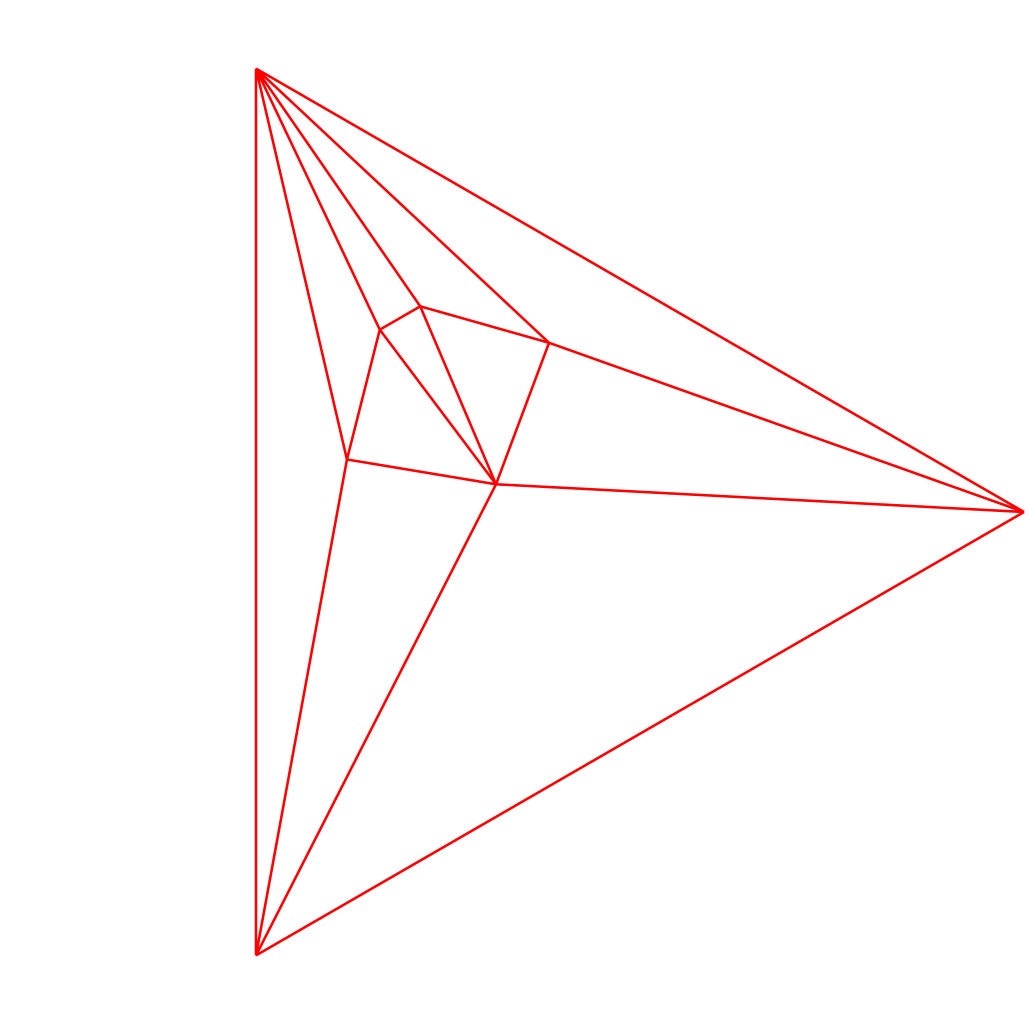
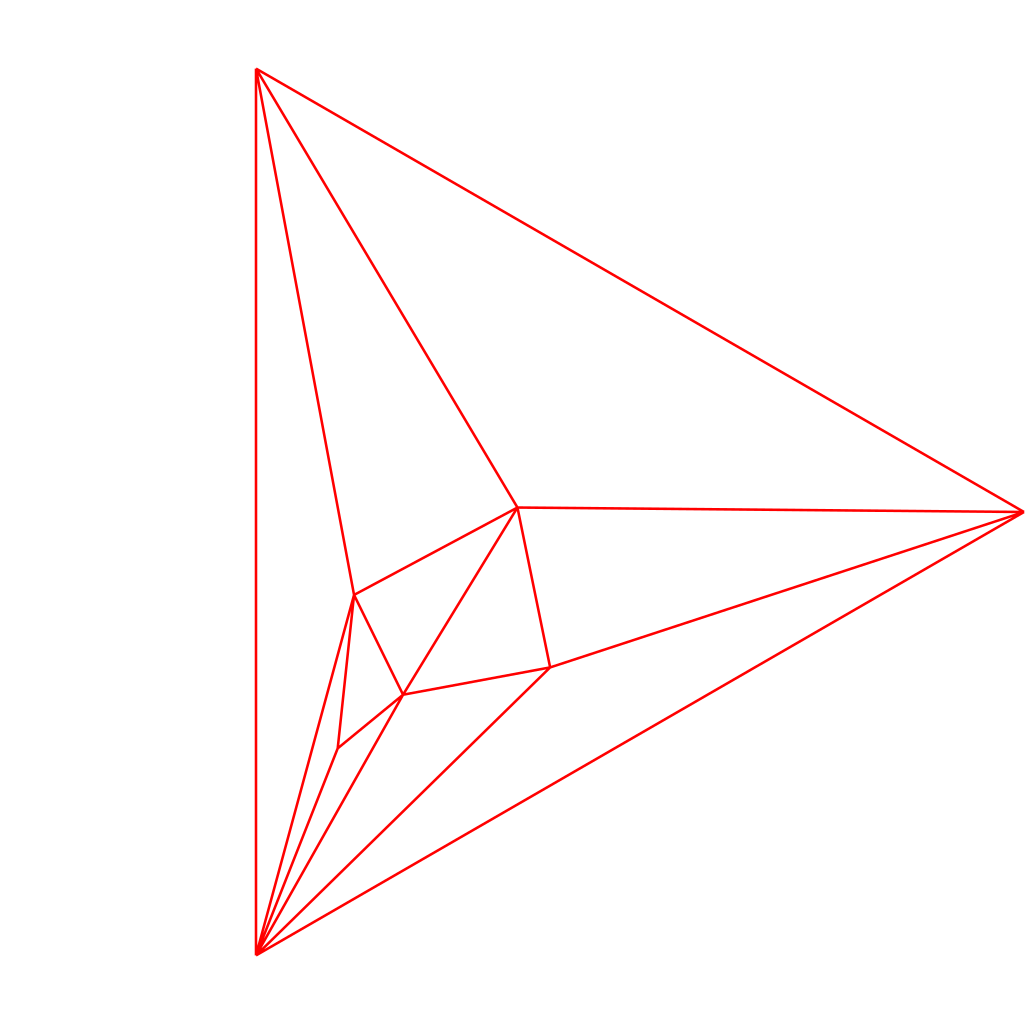
Some issue with dealing with the star packing of a single triangle, and off by one error

diff --git a/koebe/algorithms/flipPather.py b/koebe/algorithms/flipPather.py
@@ -14,8 +14,8 @@ def calculateFlipPath(triA: DCEL, triB: DCEL):
     """
     # Find the flip path between each trianguation and the canonical triangulation (c)
     aToC = triToCanonical(triA)
-    bToC = triToCanonical(triB)
-    cToB = bToC.reverse()
+    cToB = triToCanonical(triB)
+    cToB.reverse()
 
     # return the concat of aToC with the reverse of bToC (cToB) 
     return aToC + cToB
@@ -39,11 +39,12 @@ def triToCanonical(tri: DCEL):
     # Init path
     path = []
     
-    # First we start by picking a node for a and b
+    # Pick an a and b
     outerFace = dTri.boundaryVerts()
     a = outerFace[0]
     b = outerFace[1]
 
+    # Label all verts neighbor status
     aNeighbors = a.neighbors()
     bNeighbors = b.neighbors()
     for vert in dTri.verts:
@@ -69,7 +70,9 @@ def triToCanonical(tri: DCEL):
                                 next = True
                                 break
                             else:
-                                v.neighborsA = True
+                                for n in v.neighbors():
+                                    if n == a:
+                                        v.neighborsA = True
                                 break
                 if next: continue
                 uw = edge
@@ -85,7 +88,9 @@ def triToCanonical(tri: DCEL):
                                 next = True
                                 break
                             else:
-                                v.neighborsB = True
+                                for n in v.neighbors():
+                                    if n == b:
+                                        v.neighborsB = True
                                 break
 
                 if next: continue
@@ -103,7 +108,7 @@ def triToCanonical(tri: DCEL):
         # Flip the edge uw
         flip(uw)
 
-    return path
+    return path, dTri
 
 
 def flip(edge: Edge):

diff --git a/flipPathTester.py b/flipPathTester.py
@@ -16,17 +16,21 @@ def testTriToCanon():
     png.generateEmbeddingPNG("./flipTests/canon/canonTestBefore.png")
 
     # Generate the flip path
-    path = triToCanonical(tri)
+    path, dtri = triToCanonical(tri)
+
+    tutteGraph = tutteEmbeddingE2(dtri)
+    png = PngMaker(tutteGraph)
+    png.generateEmbeddingPNG("./flipTests/canon/canonTestAfter.png")
 
     # Generate an image for every flip in the path
-    i = 0
-    for edge in path:
-        flip(edge)
-        tutteGraph = tutteEmbeddingE2(tri)
-        png = PngMaker(tutteGraph)
-        filename = "./flipTests/canon/" + str(i) + ".png"
-        png.generateEmbeddingPNG(filename)
-        i += 1
+    # i = 0
+    # for edge in path:
+    #     flip(edge)
+    #     tutteGraph = tutteEmbeddingE2(tri)
+    #     png = PngMaker(tutteGraph)
+    #     filename = "./flipTests/canon/" + str(i) + ".png"
+    #     png.generateEmbeddingPNG(filename)
+    #     i += 1
 
 
 def testTriToTri():
